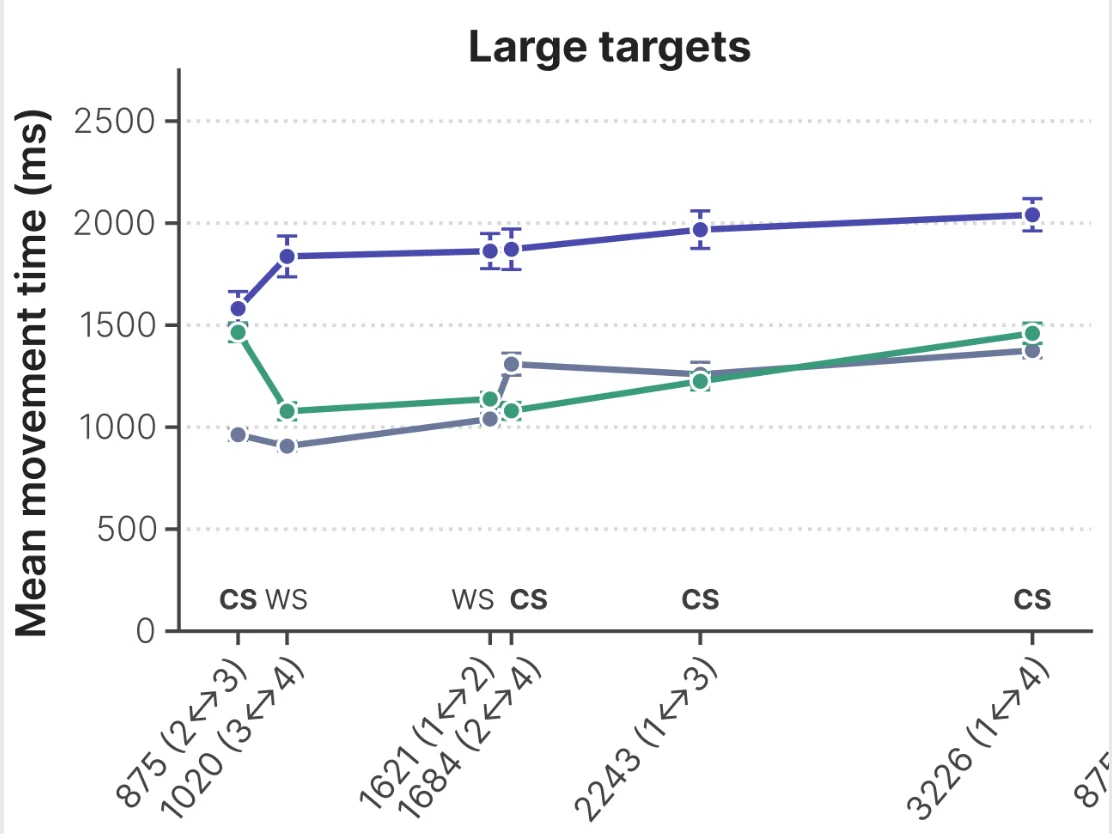
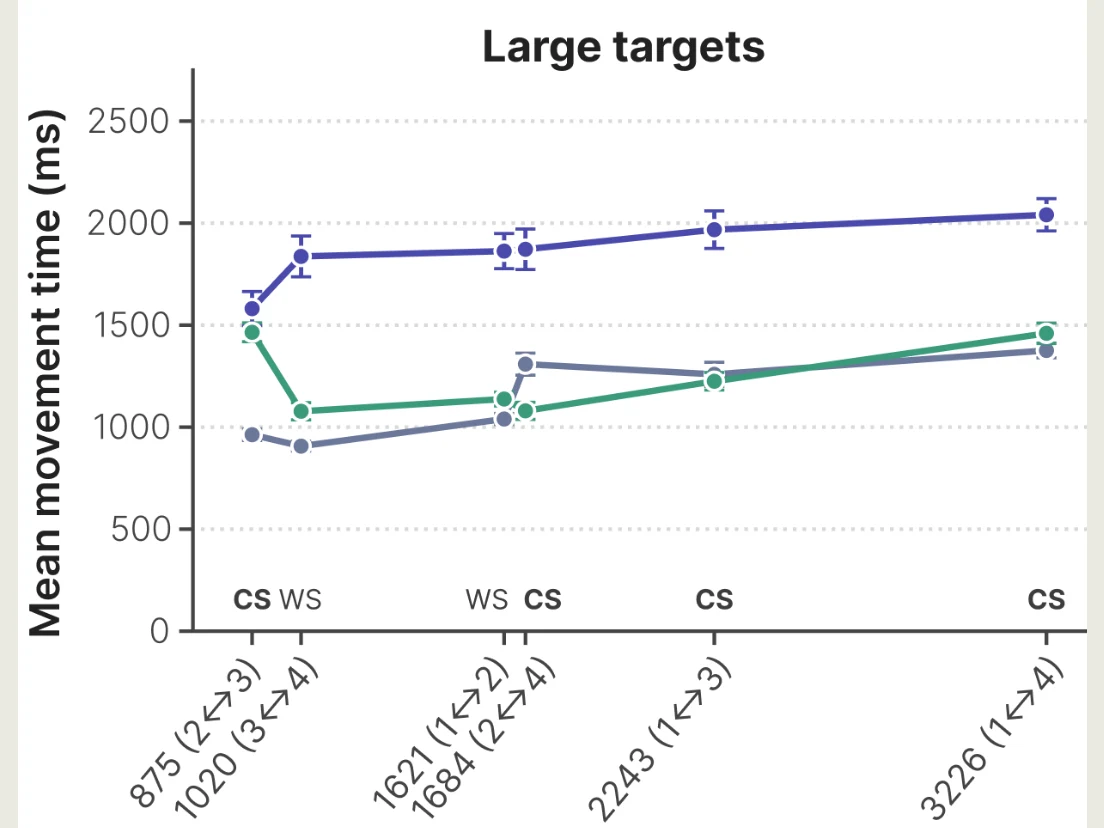
Four homepage fixes: card 04 width, arc baselines, chart cut, tags
1. Case study 04 has no exhibition photograph in this repo, so its text now
   spans all twelve columns rather than leaving cols 1-5 standing empty. An
   empty column reads as a missing image, which is the same defect the
   placeholder box was.

2. Career arc: min-height 2.6em was already on all three role labels — two
   lines at that step's leading — but it cannot hold when a label needs a
   third line in a narrow column, which is what dropped the date under "UX
   Research & Engineering". The three <li> are grid items and stretch to a
   common height, so the date now takes `mt-auto` and sits on the bottom of
   that height whatever the label above it did. The dates align on one
   baseline at every width.

3. Card 03 re-exported. The right edge is 1069 now, and the number is
   measured: the left panel's own ink ends at x=1054 (axis line and last
   tick) and the right panel's first x-label — rotated ~45°, so it leans
   down and to the LEFT of its own panel — reaches back to x=1071. Any cut
   in 1055-1070 takes all of one panel and none of the other. The old edge
   at 1105 sat inside that leaning label; that was the "0T". One panel,
   nothing clipped: axis, ticks, CS/WS marks, y-values, y-title and all six
   distance labels are whole.

4. Card 04's tags restored. Chip padding 12px -> 6px, which is the whole of
   the available slack: at 12px mono with .08em tracking the four original
   labels are 607px of text alone in a 649px column, so even zero padding
[…]

Changed region(s): [[0.0, 0.0, 1.0, 1.0], [0.4004, 0.0302, 0.7083, 0.0906]]

diff --git a/src/projects/embraceme-soft-robotics/data.js b/src/projects/embraceme-soft-robotics/data.js
@@ -42,17 +42,21 @@ export const projectData = {
   // Four tags, chosen to differentiate rather than to enumerate: one method,
   // one research skill, one technical, one domain. The full list lives on the
   // detail page and on /tags — the card is a triage surface, not an index.
-  // 57 characters, against 63 for the longest row that fits on one line
-  // (case study 03). "Public Exhibition Research" and "Human-Robot
-  // Interaction" are the two that pushed this to 75 and wrapped it; the
-  // shorter tags below hold the same four roles — method, research skill,
-  // technical, domain.
-  cardTags: ["Physical Prototyping", "Literature Review", "Arduino", "Soft Robotics"],
+  // The project's own four skills, not substitutes. The one edit is a
+  // shortened label: "Public Exhibition Research" -> "Exhibition Research",
+  // renamed everywhere it appears rather than only on the card, so the tag
+  // and its evidence stay one thing. It claims the same skill.
+  //
+  // Even at 6px chip padding the full 76-character row cannot fit a 649px
+  // column at 12px mono: the text alone is 607px and four chips plus three
+  // gaps need another 32px minimum. 69 characters can, with the same margin
+  // case study 03 has.
+  cardTags: ["Physical Prototyping", "Exhibition Research", "Arduino", "Human-Robot Interaction"],
   cardOutcome: {
     en: "Visitors wanted to control the hug; a binary touch trigger, not the soft hardware, broke the experience.",
     de: "Besucher:innen wollten die Umarmung steuern; ein binärer Berührungsauslöser brach die Erfahrung — nicht die weiche Hardware.",
   },
-  tags: ["Soft Robotics", "Human-Robot Interaction", "Shape-Changing Interfaces", "Literature Review", "Competitive Analysis", "Physical Prototyping", "Material Testing", "Arduino", "Sensor Integration", "Interaction Design", "Data Physicalization", "Public Exhibition Research"],
+  tags: ["Soft Robotics", "Human-Robot Interaction", "Shape-Changing Interfaces", "Literature Review", "Competitive Analysis", "Physical Prototyping", "Material Testing", "Arduino", "Sensor Integration", "Interaction Design", "Data Physicalization", "Exhibition Research"],
   thumbnail: thumbnailImg,
   thumbnailWebp,
   heroImage: thumbnailImg,
@@ -264,7 +268,7 @@ export const projectData = {
     { tag: "Sensor Integration", evidence: "process:Touch-Triggered Hugging with an LED Feedback Cycle — 5-pad capacitive touch sensor", status: "evidenced" },
     { tag: "Interaction Design", evidence: "process:Touch-Triggered Hugging with an LED Feedback Cycle — touch as the trigger and a green/white/blinking-red LED cycle communicating readiness, hugging, and reset; results names the missing signifiers that stopped visitors initiating a hug unprompted", status: "evidenced" },
     { tag: "Data Physicalization", evidence: "process:Critical Reflection & Redesign Proposal — Offenhuber's data physicalization framework", status: "evidenced" },
-    { tag: "Public Exhibition Research", evidence: "process:Real Users, Real (Uncomfortable) Findings", status: "evidenced" },
+    { tag: "Exhibition Research", evidence: "process:Real Users, Real (Uncomfortable) Findings", status: "evidenced" },
   ],
 };
 

diff --git a/src/test/design-system.test.js b/src/test/design-system.test.js
@@ -14,6 +14,7 @@
 
 import { describe, it, expect } from "vitest";
 import { readFileSync } from "node:fs";
+import { projects } from "../data/projects";
 
 const HOMEPAGE = [
   "src/App.jsx",
@@ -283,6 +284,54 @@ describe("reference — the card assets", () => {
     for (const path of CARD_IMAGES) {
       const kb = readFileSync(path).length / 1024;
       expect(kb, `${path} is ${Math.round(kb)} KB`).toBeLessThan(120);
+    }
+  });
+});
+
+// The tag row has to sit on one line. It wrapped once, on the card with the
+// longest labels, and the failure was invisible until someone looked at the
+// page — so the arithmetic is asserted instead.
+//
+// The row is monospace, which makes its width computable from a character
+// count: every glyph is one advance wide, plus the tracking, and the chips
+// add their own padding, borders and gaps. The three faces below are the
+// ones this font stack can actually resolve to, measured from the files in
+// C:/Windows/Fonts. The widest of them is the one that has to fit.
+describe("reference — the tag row fits one line", () => {
+  const GRID = 1200;
+  const PAGE_PADDING = 32;            // .grid-12 padding-inline
+  const GUTTER = 32;
+  const COLUMN = (GRID - 2 * PAGE_PADDING - 11 * GUTTER) / 12;
+  const TEXT_COLUMN = 7 * COLUMN + 6 * GUTTER;   // cols 6-12
+
+  const FS = 12;                      // --fs-label
+  const TRACKING = 0.08 * FS;         // --ls-08
+  const CHIP_PADDING_X = 6;           // px-s6
+  const CHIP_BORDER = 1;
+  const GAP = 8;                      // gap-s8
+
+  // em advance per character, read from each font's OS/2 xAvgCharWidth.
+  const FACES = { "Cascadia Code": 0.5859, Consolas: 0.5498, "Courier New": 0.6001 };
+
+  function rowWidth(tags, advanceEm) {
+    const chars = tags.reduce((n, t) => n + t.length, 0);
+    const text = chars * (advanceEm * FS + TRACKING);
+    const chrome = tags.length * (2 * CHIP_PADDING_X + 2 * CHIP_BORDER);
+    return text + chrome + (tags.length - 1) * GAP;
+  }
+
+  it("fits in the text column in every mono face the stack can resolve to", () => {
+    for (const p of projects) {
+      if (!p.cardTags) continue;
+      for (const [face, advance] of Object.entries(FACES)) {
+        const w = rowWidth(p.cardTags, advance);
+        expect(
+          w,
+          `${p.slug}: tag row is ${w.toFixed(0)}px in ${face}, over the ` +
+            `${TEXT_COLUMN.toFixed(0)}px text column — shorten a label or ` +
+            `reduce chip padding, do not substitute a different skill`
+        ).toBeLessThanOrEqual(TEXT_COLUMN);
+      }
     }
   });
 });

diff --git a/src/components/SkillTagRow.jsx b/src/components/SkillTagRow.jsx
@@ -1,7 +1,13 @@
-// Tag chips, exactly as the reference draws them: mono 12px at .08em,
-// uppercase, a 1px hairline in the border token, fully rounded, 5/12
-// padding. Capitals are legitimate here because this is the label role —
-// the only role in the system allowed them.
+// Tag chips: mono 12px at .08em, uppercase, a 1px hairline in the border
+// token, fully rounded. Capitals are legitimate here because this is the
+// label role — the only role in the system allowed them.
+//
+// Horizontal padding is 6px, not the reference's 12px. Four tags have to sit
+// on one line in a 649px column, and at 12px mono with .08em the text alone
+// is most of that: the padding is the only slack there is. Measured against
+// the three mono faces this stack can resolve to (Cascadia .586em, Consolas
+// .550em, Courier New .600em), 6px leaves the longest row the same headroom
+// the shortest one had at 12px.
 import React from "react";
 
 // `rule-pill` draws the outline instead of stroking it; --rule-cap tunes the
@@ -10,7 +16,7 @@ import React from "react";
 // because the visible line is painted over it.
 const CHIP =
   "inline-block text-tag font-mono uppercase text-text-meta " +
-  "border rule-pill [--rule-cap:14px] rounded-full px-s12 py-s5 " +
+  "border rule-pill [--rule-cap:14px] rounded-full px-s6 py-s5 " +
   "transition-colors duration-200 ease-smooth " +
   "hover:[--rule-line-color:var(--primary-600)] hover:text-primary-600";
 

diff --git a/src/components/StackedProjectCard.jsx b/src/components/StackedProjectCard.jsx
@@ -45,10 +45,10 @@ export function StackedProjectCard({ project, index }) {
       }}
       className="grid-12 relative group py-s48 border-t rule-t"
     >
-      {/* A card with no asset renders no figure column — not an empty box,
-          and never a box explaining which photograph belongs in it. The text
-          stays in cols 6-12 either way, so every title on the page starts on
-          the same x-axis. */}
+      {/* A card with no asset renders no figure column and no plate. Its text
+          takes all twelve columns rather than leaving cols 1-5 standing
+          empty — an empty column reads as a missing image, which is the same
+          defect a placeholder box was. */}
       {figure && (
         <div className="md:col-span-5">
           <div className="card-figure rule-frame-in">
@@ -64,7 +64,11 @@ export function StackedProjectCard({ project, index }) {
         </div>
       )}
 
-      <div className="md:col-start-6 md:col-span-7 flex flex-col gap-s16 mt-s24 md:mt-0">
+      <div
+        className={`flex flex-col gap-s16 ${
+          figure ? "md:col-start-6 md:col-span-7 mt-s24 md:mt-0" : "md:col-span-12"
+        }`}
+      >
         <div className="flex items-center gap-s12">
           <span className="text-num font-mono text-primary-600">
             {String(index + 1).padStart(2, "0")}

diff --git a/src/components/CareerArc.jsx b/src/components/CareerArc.jsx
@@ -158,12 +158,19 @@ function CareerArcCompact({ steps }) {
       transition={{ duration: reduce ? 0 : 0.4, ease: EASE }}
     >
       {steps.map((step) => (
-        <li key={step.phase} className="flex flex-col gap-s6">
+        <li key={step.phase} className="flex flex-col gap-s6 h-full">
           <span className="text-numeral font-display font-bold text-primary-600" aria-hidden="true">
             {step.phase}
           </span>
+          {/* 2.6em is two lines at this step's leading, so a one-line label
+              still reserves the height a two-line one takes. */}
           <span className="text-arc font-medium text-text min-h-arc">{step.label}</span>
-          <span className="text-years font-mono text-text-dim">{step.years}</span>
+          {/* And `mt-auto` is what makes the reservation hold when a label
+              needs a third line at a narrow column: the three <li> are grid
+              items and stretch to a common height, so pushing the date to
+              the bottom of that height puts all three on one baseline
+              whatever the label above them did. */}
+          <span className="text-years font-mono text-text-dim mt-auto">{step.years}</span>
         </li>
       ))}
     </motion.ol>
